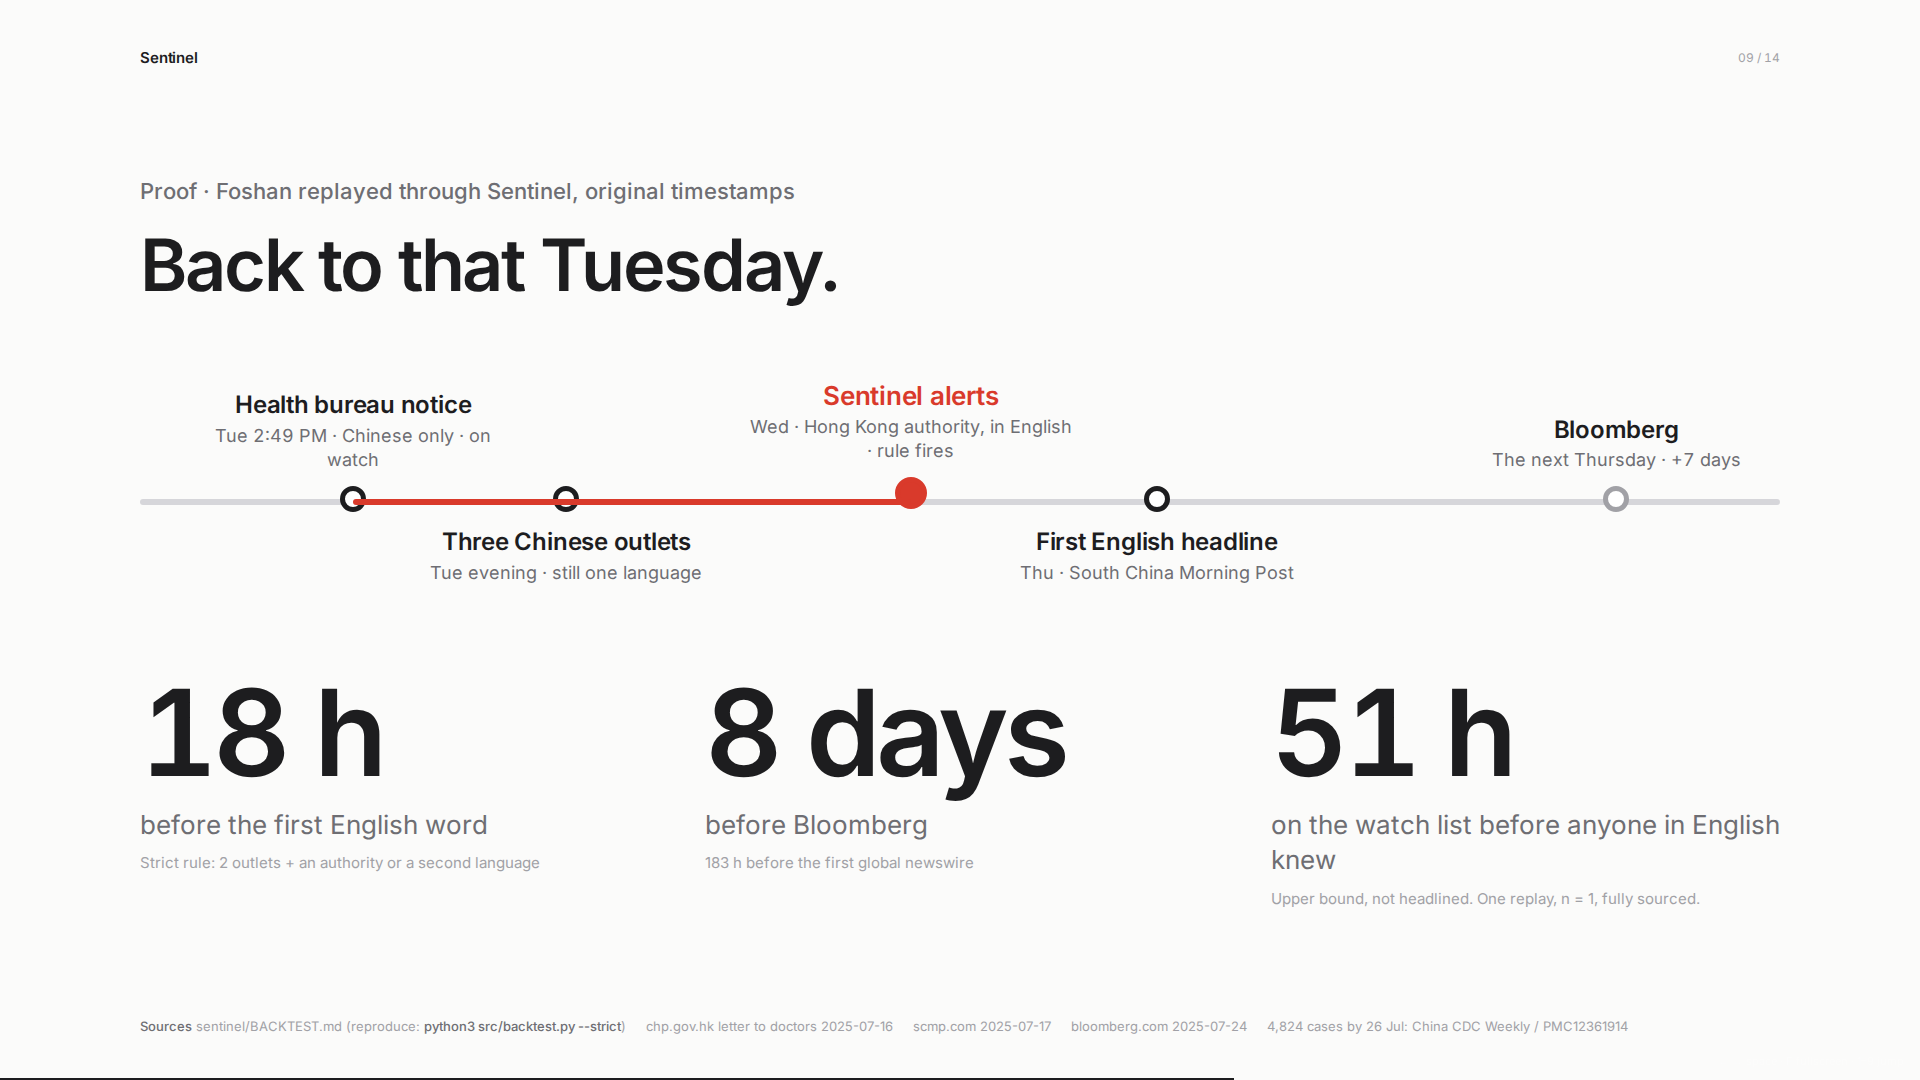
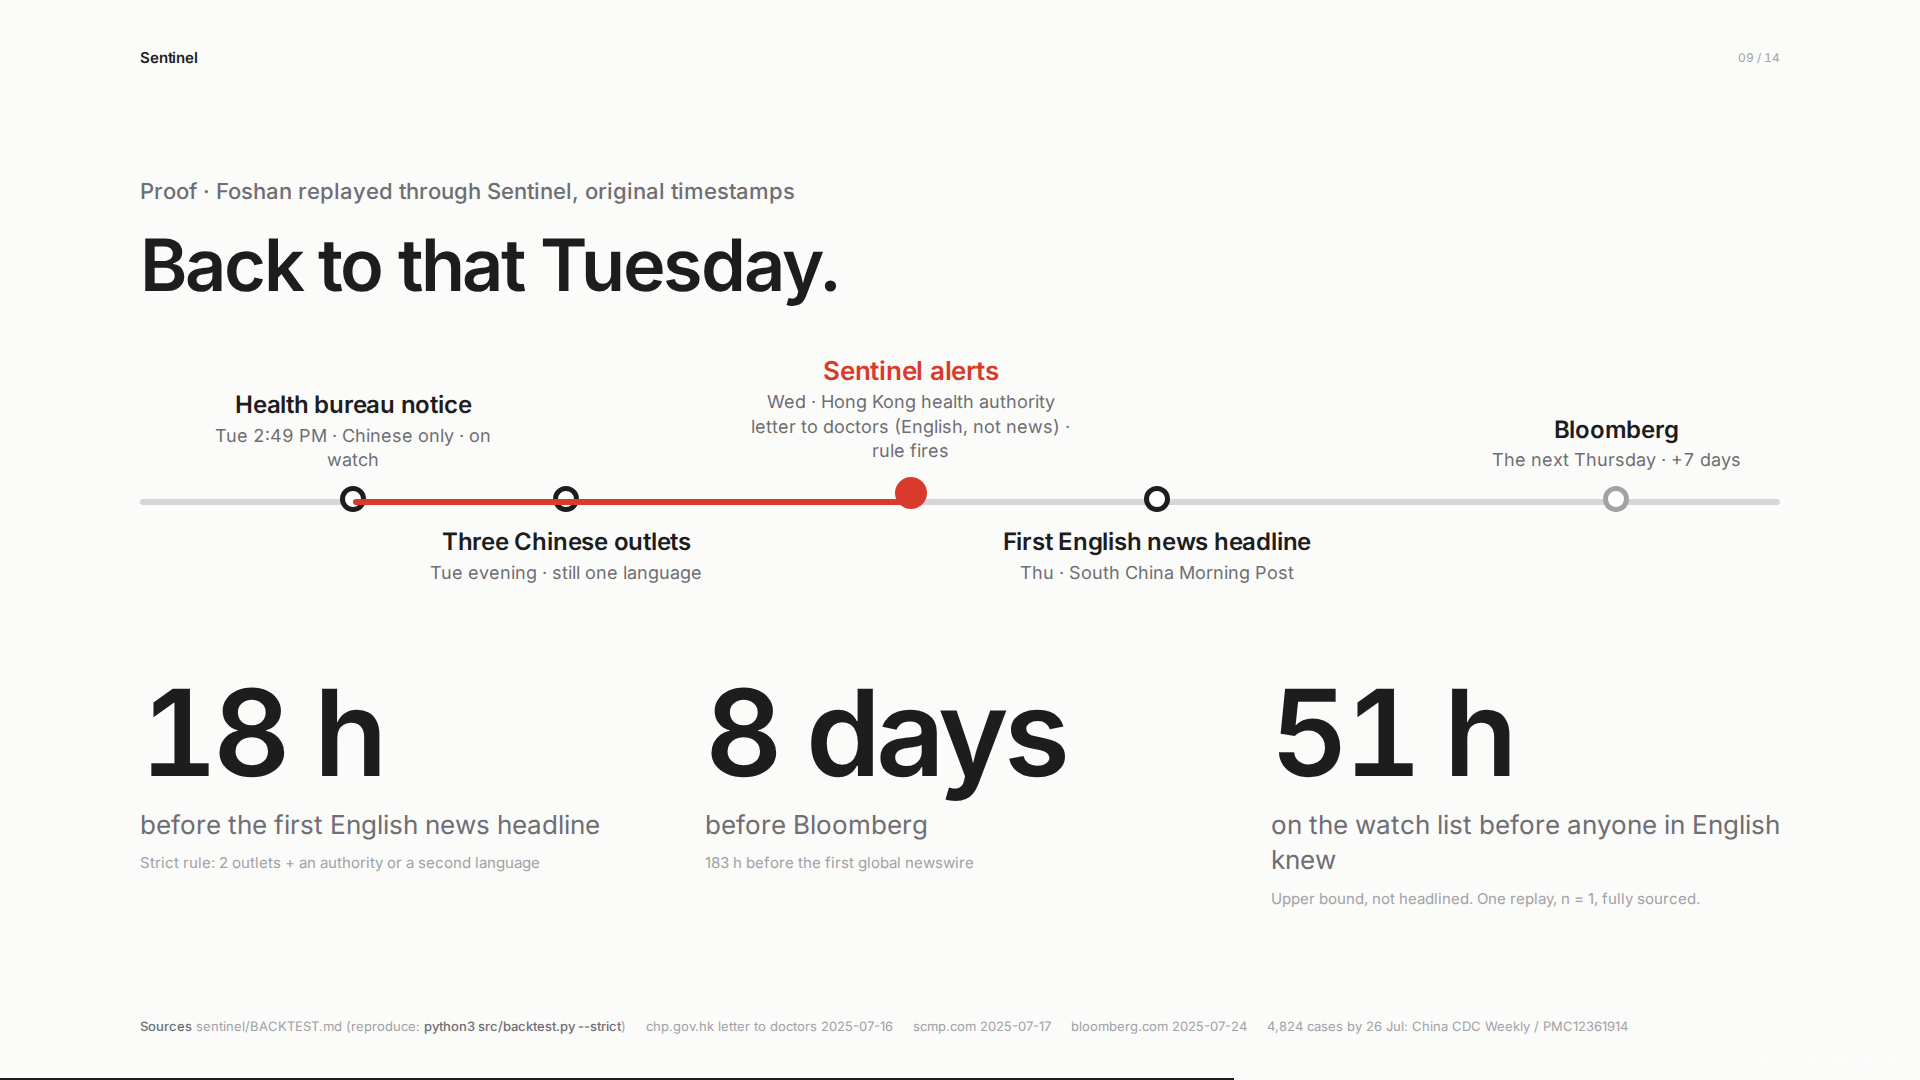
Foshan slide: distinguish the English authority letter (trigger) from the first English news headline
Claude-Session: https://claude.ai/code/session_01FUCurQPFnAXBDdE5fg9zhM

Changed region(s): [[0.375, 0.3361, 0.5625, 0.4278], [0.2188, 0.7333, 0.3125, 0.7944], [0.5312, 0.4889, 0.6875, 0.5194]]

diff --git a/pitch/deck.html b/pitch/deck.html
@@ -387,10 +387,10 @@ Let&#x27;s go back to that Tuesday and replay it, with the original timestamps, 
 
 → Tuesday afternoon. The notice goes up. Chinese only. Sentinel puts it on the watch list. Nobody is alerted yet, because one source is not enough.
 → Tuesday evening. Three Chinese outlets pick it up. Still one language. Still watching.
-→ Wednesday afternoon. Hong Kong&#x27;s health authority writes to its doctors, in English. Second language, an authority. The rule fires. [Pause.] Sentinel alerts.
-→ Thursday. The first English headline.
+→ Wednesday afternoon. Hong Kong&#x27;s health authority sends an official letter to its doctors. Not news, an authority document, and the first English-language source. Two languages, plus an authority. [Pause.] The rule fires. Sentinel alerts.
+→ Thursday. The first English NEWS headline, the South China Morning Post. Until then nothing in English had been published for the public.
 → [Pause.] And the following Thursday: Bloomberg. That&#x27;s when the industry found out.
-→ Eighteen hours before the first English word. Eight days before Bloomberg. And it was on the watch list fifty-one hours out. One replay, every URL in the repo, reproduce it with one command.">
+→ Eighteen hours before the first English news headline. Eight days before Bloomberg. And it was on the watch list fifty-one hours out. One replay, every URL in the repo, reproduce it with one command.">
   <div class="mark">Sentinel</div>
   <div class="num">09 / 14</div>
   <p class="kicker">Proof · Foshan replayed through Sentinel, original timestamps</p>
@@ -399,13 +399,13 @@ Let&#x27;s go back to that Tuesday and replay it, with the original timestamps, 
     <div class="axis">
       <div class="pt above b" style="left:13%"><div class="w">Health bureau notice</div><div class="t">Tue 2:49 PM · Chinese only · on watch</div><div class="dot"></div></div>
       <div class="pt below b" style="left:26%"><div class="dot"></div><div class="w">Three Chinese outlets</div><div class="t">Tue evening · still one language</div></div>
-      <div class="pt sig above b" style="left:47%"><div class="w">Sentinel alerts</div><div class="t">Wed · Hong Kong authority, in English · rule fires</div><div class="dot"></div></div>
+      <div class="pt sig above b" style="left:47%"><div class="w">Sentinel alerts</div><div class="t">Wed · Hong Kong health authority letter to doctors (English, not news) · rule fires</div><div class="dot"></div></div>
       <div class="span b" style="left:13%;width:34%"></div>
-      <div class="pt below b" style="left:62%"><div class="dot"></div><div class="w">First English headline</div><div class="t">Thu · South China Morning Post</div></div>
+      <div class="pt below b" style="left:62%"><div class="dot"></div><div class="w">First English news headline</div><div class="t">Thu · South China Morning Post</div></div>
       <div class="pt above faint b" style="left:90%"><div class="w">Bloomberg</div><div class="t">The next Thursday · +7 days</div><div class="dot"></div></div>
 </div>
     <div class="lead">
-      <div class="b"><div class="n">18 h</div><div class="cap">before the first English word</div><div class="src">Strict rule: 2 outlets + an authority or a second language</div></div>
+      <div class="b"><div class="n">18 h</div><div class="cap">before the first English news headline</div><div class="src">Strict rule: 2 outlets + an authority or a second language</div></div>
       <div class="b"><div class="n">8 days</div><div class="cap">before Bloomberg</div><div class="src">183 h before the first global newswire</div></div>
       <div class="b"><div class="n">51 h</div><div class="cap">on the watch list before anyone in English knew</div><div class="src">Upper bound, not headlined. One replay, n = 1, fully sourced.</div></div>
     </div>

diff --git a/sentinel/ui/deck/index.html b/sentinel/ui/deck/index.html
@@ -387,10 +387,10 @@ Let&#x27;s go back to that Tuesday and replay it, with the original timestamps, 
 
 → Tuesday afternoon. The notice goes up. Chinese only. Sentinel puts it on the watch list. Nobody is alerted yet, because one source is not enough.
 → Tuesday evening. Three Chinese outlets pick it up. Still one language. Still watching.
-→ Wednesday afternoon. Hong Kong&#x27;s health authority writes to its doctors, in English. Second language, an authority. The rule fires. [Pause.] Sentinel alerts.
-→ Thursday. The first English headline.
+→ Wednesday afternoon. Hong Kong&#x27;s health authority sends an official letter to its doctors. Not news, an authority document, and the first English-language source. Two languages, plus an authority. [Pause.] The rule fires. Sentinel alerts.
+→ Thursday. The first English NEWS headline, the South China Morning Post. Until then nothing in English had been published for the public.
 → [Pause.] And the following Thursday: Bloomberg. That&#x27;s when the industry found out.
-→ Eighteen hours before the first English word. Eight days before Bloomberg. And it was on the watch list fifty-one hours out. One replay, every URL in the repo, reproduce it with one command.">
+→ Eighteen hours before the first English news headline. Eight days before Bloomberg. And it was on the watch list fifty-one hours out. One replay, every URL in the repo, reproduce it with one command.">
   <div class="mark">Sentinel</div>
   <div class="num">09 / 14</div>
   <p class="kicker">Proof · Foshan replayed through Sentinel, original timestamps</p>
@@ -399,13 +399,13 @@ Let&#x27;s go back to that Tuesday and replay it, with the original timestamps, 
     <div class="axis">
       <div class="pt above b" style="left:13%"><div class="w">Health bureau notice</div><div class="t">Tue 2:49 PM · Chinese only · on watch</div><div class="dot"></div></div>
       <div class="pt below b" style="left:26%"><div class="dot"></div><div class="w">Three Chinese outlets</div><div class="t">Tue evening · still one language</div></div>
-      <div class="pt sig above b" style="left:47%"><div class="w">Sentinel alerts</div><div class="t">Wed · Hong Kong authority, in English · rule fires</div><div class="dot"></div></div>
+      <div class="pt sig above b" style="left:47%"><div class="w">Sentinel alerts</div><div class="t">Wed · Hong Kong health authority letter to doctors (English, not news) · rule fires</div><div class="dot"></div></div>
       <div class="span b" style="left:13%;width:34%"></div>
-      <div class="pt below b" style="left:62%"><div class="dot"></div><div class="w">First English headline</div><div class="t">Thu · South China Morning Post</div></div>
+      <div class="pt below b" style="left:62%"><div class="dot"></div><div class="w">First English news headline</div><div class="t">Thu · South China Morning Post</div></div>
       <div class="pt above faint b" style="left:90%"><div class="w">Bloomberg</div><div class="t">The next Thursday · +7 days</div><div class="dot"></div></div>
 </div>
     <div class="lead">
-      <div class="b"><div class="n">18 h</div><div class="cap">before the first English word</div><div class="src">Strict rule: 2 outlets + an authority or a second language</div></div>
+      <div class="b"><div class="n">18 h</div><div class="cap">before the first English news headline</div><div class="src">Strict rule: 2 outlets + an authority or a second language</div></div>
       <div class="b"><div class="n">8 days</div><div class="cap">before Bloomberg</div><div class="src">183 h before the first global newswire</div></div>
       <div class="b"><div class="n">51 h</div><div class="cap">on the watch list before anyone in English knew</div><div class="src">Upper bound, not headlined. One replay, n = 1, fully sourced.</div></div>
     </div>

diff --git a/pitch/PLAYBOOK.md b/pitch/PLAYBOOK.md
@@ -8,7 +8,7 @@ Detection is solved; Sentinel is the unsolved last mile: a public signal, in any
 
 ## Three numbers to memorize
 
-1. **18 h / ~8 days (Foshan) · 18 h before landfall (Otis).** Foshan replay: Sentinel fires 18 hours before the first English headline, about eight days (183 h) before Bloomberg. Strict rule. Reproducible.
+1. **18 h / ~8 days (Foshan) · 18 h before landfall (Otis).** Foshan replay: Sentinel fires 18 hours before the first English news headline (the trigger was an English-language health-authority letter, not a news story), about eight days (183 h) before Bloomberg. Strict rule. Reproducible.
 2. **$1.47B.** Chubb's pre-tax loss from the LA wildfires in one quarter (Q1 2025). The fire was public from hour one.
 3. **$3.48B · 4 decisions.** What's on the live screen today. Polo: 62 sites, $1.52B, Cat 5 issued by NHC, none in the core, action "restrict new binding, Baja California Sur."
 
@@ -51,6 +51,9 @@ Pre-state: UI tab open on **Property**, nothing selected, page freshly loaded, z
 9. Switch back to the deck tab, slide 5 (One screen, on purpose).
 
 Keyboard in the deck: → / space next (reveals the next build on slides 1 and 8 before advancing), ← back, F fullscreen, 1–9 jump to slide, 0 jumps to slide 14. Slides 1, 9 and 11 have builds: → reveals the next beat before advancing. The deck also accepts a click on the right third of the screen to advance.
+
+## If a judge asks "wasn't the Hong Kong letter already English?"
+Yes. It was an official letter from Hong Kong's Centre for Health Protection to doctors, an authority document, not a news story. That is exactly what our rule waits for: a second language or an authority. It fired on that letter. The first English *news* headline came 18 hours later, and the first global newswire 8 days later. Sentinel had the Chinese items on the watch list 51 hours before the letter.
 
 ## Say it so a non-insurance judge follows (use these the first time each word comes up)
 

diff --git a/pitch/PITCH.md b/pitch/PITCH.md
@@ -85,11 +85,11 @@ So we built that."
 
 [→] "Tuesday, 2:49. The notice goes up. Chinese only. Sentinel puts it on the watch list. No alert yet: one source is never enough."
 [→] "Tuesday evening. Three Chinese outlets pick it up. Still one language. Still watching."
-[→] "Wednesday afternoon. Hong Kong's health authority writes to its doctors. In English. Second language, and an authority." [Beat.] "The rule fires. Sentinel alerts."
+[→] "Wednesday afternoon. Hong Kong's health authority sends an official letter to its doctors. Not news, an authority document, and the first thing in English. Two languages, plus an authority." [Beat.] "The rule fires. Sentinel alerts."
 [→ the red line draws] "That red line is the head start."
-[→] "Thursday: the first English headline."
+[→] "Thursday: the first English news headline. The South China Morning Post. Until then, nothing in English had been published for the public."
 [→] "And the following Thursday: Bloomberg. That is when the industry found out."
-[→ → → the three numbers] "Eighteen hours before the first English word. Eight days before Bloomberg. Fifty-one hours on the watch list before anyone in English knew. Every URL is in the repo. One command reproduces it."
+[→ → → the three numbers] "Eighteen hours before the first English news headline. Eight days before Bloomberg. Fifty-one hours on the watch list before anyone in English knew. Every URL is in the repo. One command reproduces it."
 
 ## 2:50 – 2:55 · Slide 10 · Acapulco, the morning after
 
